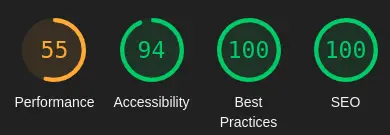
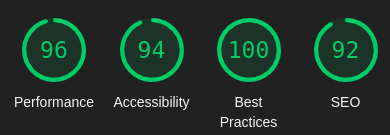
Patch 2.12
Updated Lighthouse result.

diff --git a/README.md b/README.md
@@ -20,6 +20,8 @@ The same can be viewed on [https://ttt-stories.netlify.app](https://ttt-stories.
 
 ![TTT Mobile Preview Image](https://ttt-stories.netlify.app/images/ttt-mobile.webp)
 
+> Taken at `Nov 16, 2023 03:38 AM` in `Chrome`'s `Incognito` mode.
+
 ### Recent LightHouse score
 
 ![TTT LightHouse Score](https://ttt-stories.netlify.app/images/lighthouse.webp)
